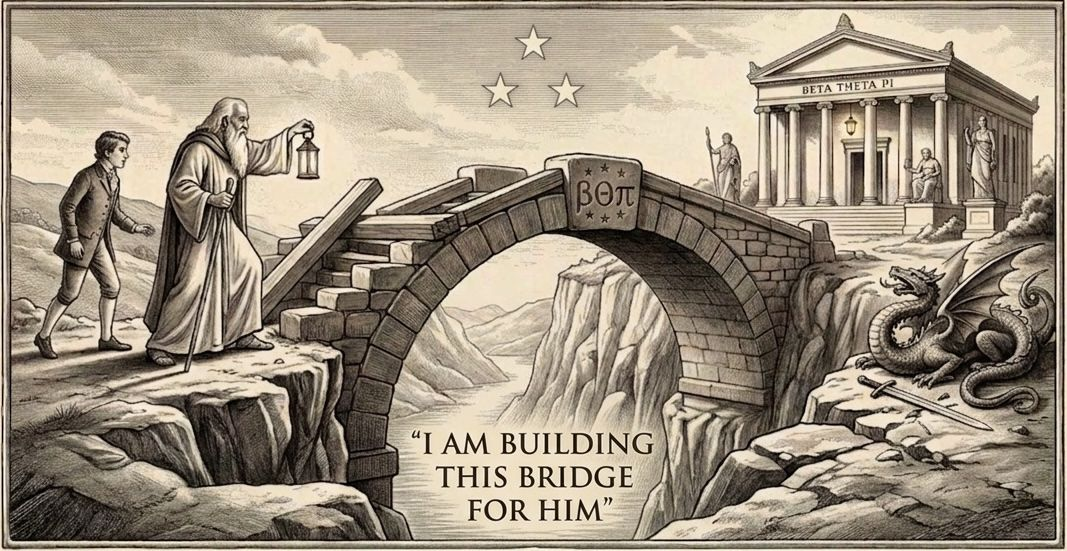
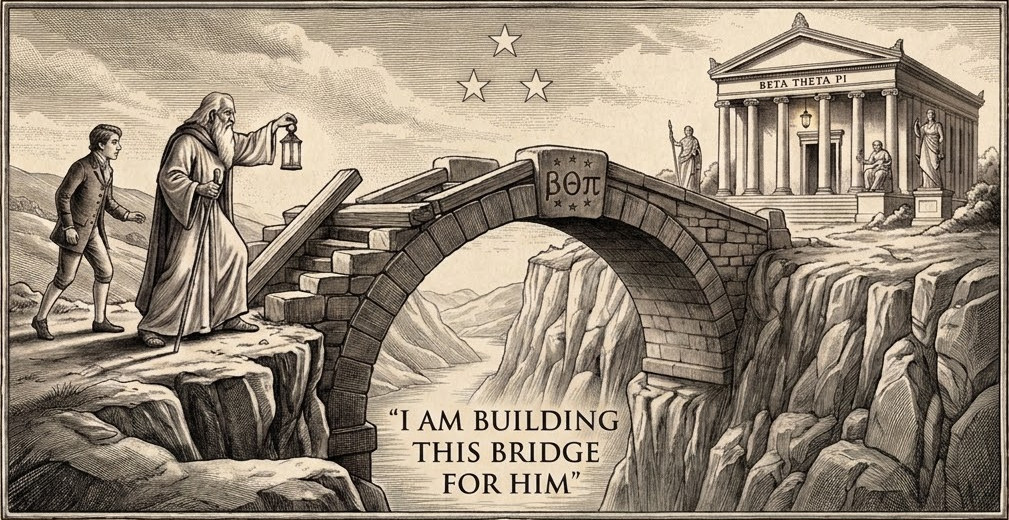
Update the teaser page

diff --git a/index.html b/index.html
@@ -388,8 +388,9 @@
 
             <figure class="bridge">
                 <picture>
-                    <source type="image/webp" srcset="img/bridge.webp">
-                    <img src="img/bridge.jpg" width="1067" height="551" loading="lazy" decoding="async" alt="An engraving of an old man building a stone bridge across a chasm, a young traveller behind him, the words I am building this bridge for him beneath.">
+                    <source type="image/webp" media="(max-width: 900px)" srcset="img/bridge-800.webp">
+                        <source type="image/webp" srcset="img/bridge.webp">
+                    <img src="img/bridge.jpg" width="1009" height="520" loading="lazy" decoding="async" alt="An engraving of an old man building a stone bridge across a chasm, a young traveller behind him, the words I am building this bridge for him beneath.">
                 </picture>
             </figure>
         </div>
